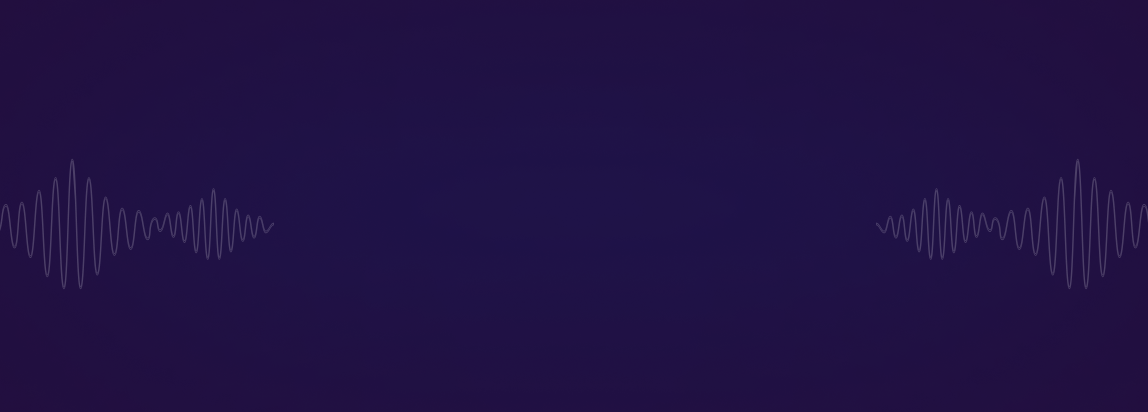
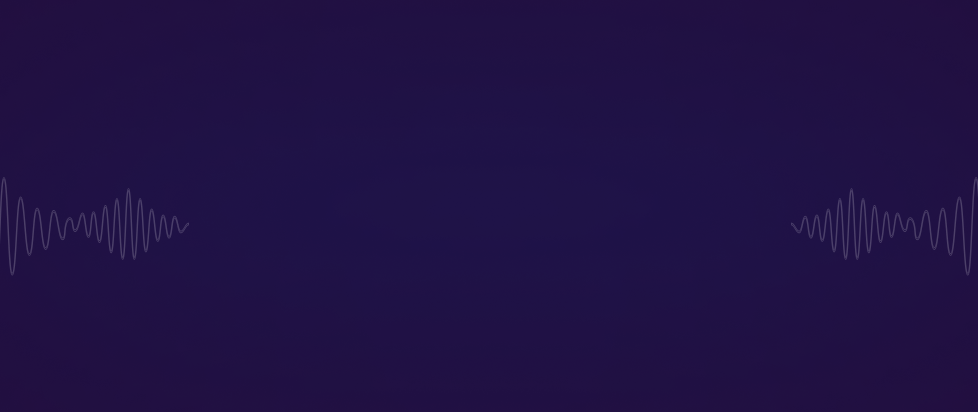
added some minor details

Changed region(s): [[0.7669, 0.4369, 1.0, 0.699], [0.0, 0.4369, 0.2454, 0.6699]]

diff --git a/styles/techwave.css b/styles/techwave.css
@@ -59,6 +59,16 @@
     line-height: 20px;
 }
 
+hr {
+    height: 2px;
+    width: 80%;        
+    color: #aeacac;
+    border-top: 1px solid #1A0B2E;
+    margin-right: auto;
+    margin-left: auto; 
+    opacity: 0.5;
+}
+
 /* navbar related styles */
 .nav-bar {
     background-color: #1A0B2E;
@@ -121,8 +131,8 @@
 
 .banner-mic {
     position: absolute;
-    transform: translate(-171%, 20%);
-    width: 11.5%;
+    transform: translate(-210%, 40%);
+    width: 8.5%;
     
 }
 
@@ -195,6 +205,12 @@
 .why-card {
     background-color: rgba(53, 17, 101, 0.4);
     border-radius: 40px;
+    display: flex;
+    flex-direction: column;
+    align-items: flex-start;
+    justify-content: center;
+    text-align: left;
+    
 }
 
 .why-heading {
@@ -225,6 +241,10 @@
     padding: 40px;
 }
 
+.interview img {
+    height: 65px;
+    width: 70px;
+}
 /* featured related styles */
 
 .featured .section-heading{
@@ -239,6 +259,8 @@
 
 .video {
     background-color: #250D44;
+    border-radius: 40px;
+    overflow: hidden;
     /* border-radius: 50px; */
 }
 .video iframe {
@@ -375,14 +397,15 @@
     }
     .banner-circle {
         position: relative;
-        transform: translate(0, -65%);
-        width: 40%;
+        transform: translate(0, -55%);
+        width: 50%;
         
     }
 
     .banner-mic {
         position: absolute;
-        transform: translate(-215%,-90%);
+        transform: translate(-270%,-74%);
+        width: 11%;
         
     }
 
@@ -396,12 +419,14 @@
     }
     .card-container {
         grid-template-columns: repeat(2, 1fr);
-        gap: 40px;
+        gap: 30px;
     }
 
     .why-cards {
-        grid-template-columns: 1fr;
+        grid-template-columns: 300px;
         justify-content: center;
+        margin-left: auto;
+        margin-right: auto;
     }
 
     .video-container {
@@ -411,13 +436,30 @@
     .host-info {
         flex-direction: column;
     }
+
+    .host-socials {
+        margin-top: 10px;
+    }
     .footer-section {
+        background-image: url(../assets/footer-bg\ -\ cropped.png);
         background-size: 100% 400px;
     }
 
+    .footer-logo {
+        font-size: 2.75rem;
+        font-weight: 800;
+    }
     .socials-container {
-        grid-template-columns: repeat(2, 1fr);
+        grid-template-columns: repeat(2, 130px);
         gap: 10px;
+    }
+
+    .socials a {
+        font-size: 11.5px;
+    }
+
+    .copyright {
+        font-size: 11.5px;
     }
 }
 

diff --git a/index.html b/index.html
@@ -45,7 +45,7 @@
 
     <main>
         <section class="abt">
-            <h3 class="section-heading">About the Podcast</h3>
+            <h3 class="section-heading">About The Podcast</h3>
             <p class="section-description">TechWave is your go-to podcast for staying ahead in the fast-paced world of technology. <br> We break down complex topics into digestible insights, explore productivity strategies that actually work, <br>
             and share stories of personal growth from industry leaders.</p>
             <p class="join">Join thousands of young professionals and tech enthusiasts who start their day with TechWave.</p>
@@ -89,7 +89,7 @@
                     <p class="why-description">Connect with tech enthusiasts from over 120 countries worldwide.</p>
                 </div>
                 <div class="why-card interview">
-                    <img src="./assets/" alt="" class="why-img">
+                    <img src="./assets/interview.png" alt="" class="why-img">
                     <h3 class="why-heading">Exclusive Interviews</h3>
                     <p class="why-description">Get unprecedented access to industry titans, startup founders, and tech visionaries. Our host secures exclusive conversations you won't find anywhere else, diving deep into their journeys, failures, and success strategies.</p>
                 </div>
@@ -165,7 +165,7 @@
                         <a href=""><img src="./assets/spotify.png" alt="">Spotify</a>
                     </div>
                     <div class="social">
-                        <a href=""><img src="./assets/apple-podcast.png" alt="">Apple Podcasts</a>
+                        <a href=""><img src="./assets/apple-podcast.png" alt="">Apple Podcast</a>
                     </div>
                     <div class="social">
                         <a href=""><img src="./assets/youtube-podcast.png" alt="">Youtube</a>
